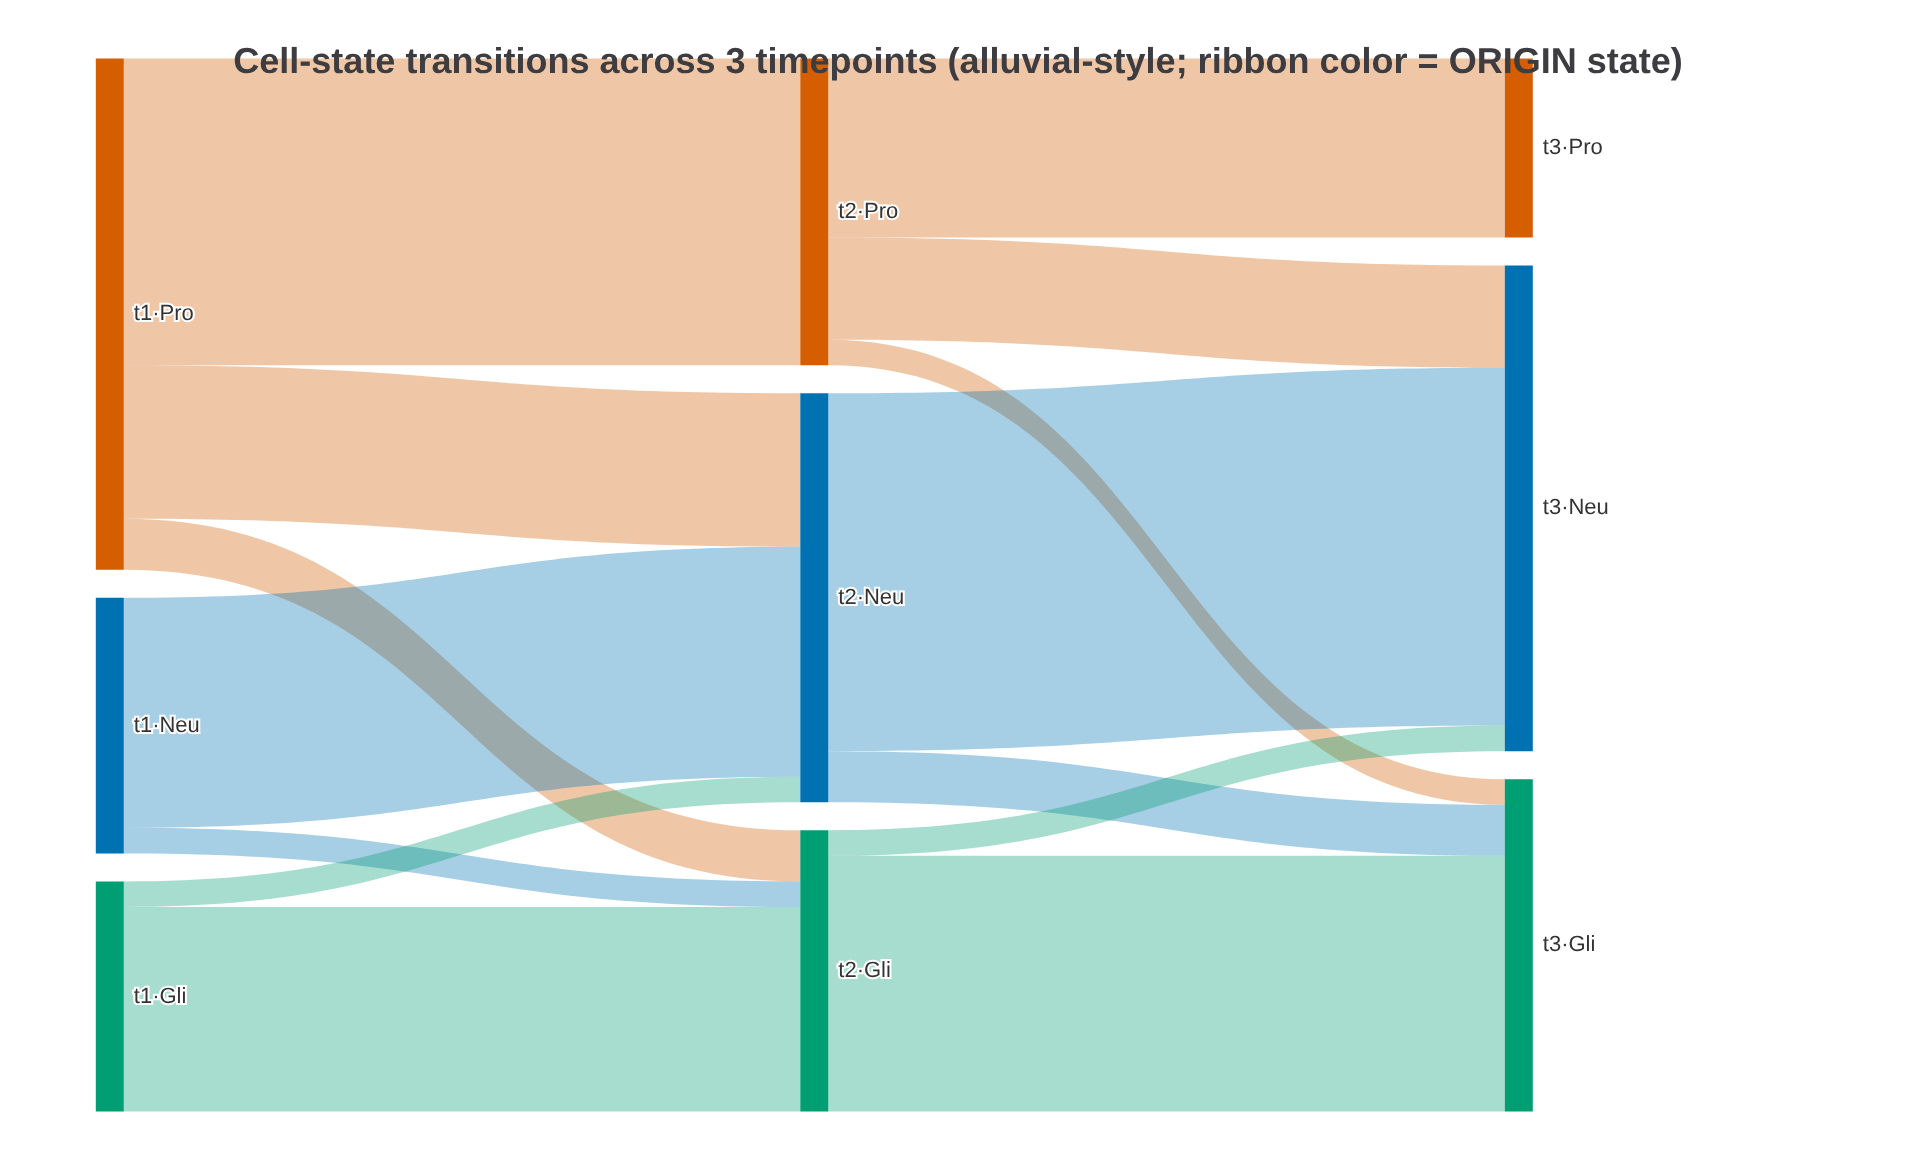
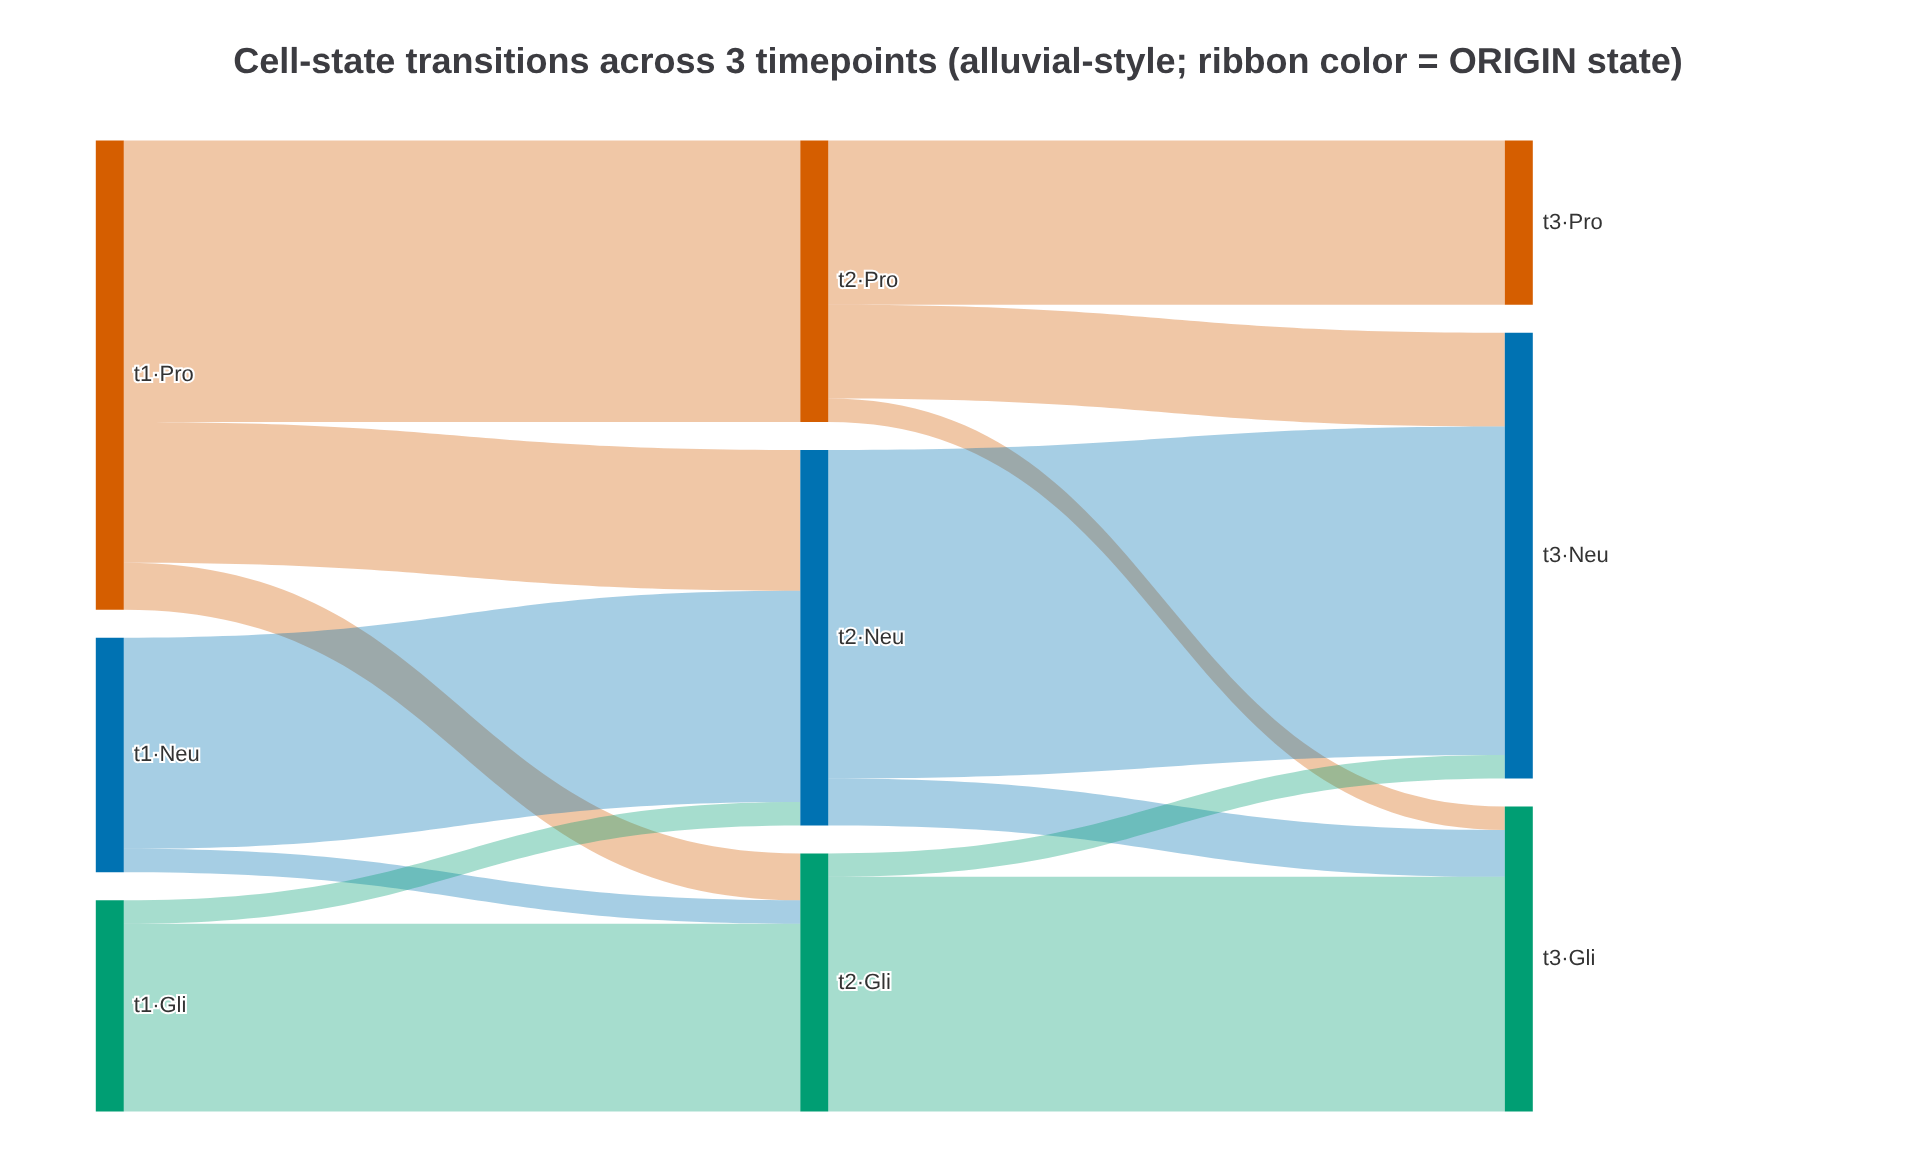
fix: ECharts sankey/title overlap (S11) — sankey ignores grid; set series.top
- examples/echarts.html, echarts-alluvial.html: sankey body rendered at top:0
  under the in-canvas title; now title.top=3% + series.top=12% (render-verified)
- SKILL.md: signature-library entry S11; engines/echarts.md pitfall
  (sankey/tree/sunburst/treemap position via their own top/left/right/bottom,
  not grid.top)
- screenshots for both examples regenerated (2x element crops)
- version 0.8.0 -> 0.8.1

diff --git a/examples/echarts-alluvial.html b/examples/echarts-alluvial.html
@@ -38,55 +38,55 @@ const SPEC = {
       "nodeWidth": 14,
       "data": [
         {
-          "name": "t1\u00b7Pro",
+          "name": "t1·Pro",
           "itemStyle": {
             "color": "#D55E00"
           }
         },
         {
-          "name": "t1\u00b7Neu",
+          "name": "t1·Neu",
           "itemStyle": {
             "color": "#0072B2"
           }
         },
         {
-          "name": "t1\u00b7Gli",
+          "name": "t1·Gli",
           "itemStyle": {
             "color": "#009E73"
           }
         },
         {
-          "name": "t2\u00b7Pro",
+          "name": "t2·Pro",
           "itemStyle": {
             "color": "#D55E00"
           }
         },
         {
-          "name": "t2\u00b7Neu",
+          "name": "t2·Neu",
           "itemStyle": {
             "color": "#0072B2"
           }
         },
         {
-          "name": "t2\u00b7Gli",
+          "name": "t2·Gli",
           "itemStyle": {
             "color": "#009E73"
           }
         },
         {
-          "name": "t3\u00b7Pro",
+          "name": "t3·Pro",
           "itemStyle": {
             "color": "#D55E00"
           }
         },
         {
-          "name": "t3\u00b7Neu",
+          "name": "t3·Neu",
           "itemStyle": {
             "color": "#0072B2"
           }
         },
         {
-          "name": "t3\u00b7Gli",
+          "name": "t3·Gli",
           "itemStyle": {
             "color": "#009E73"
           }
@@ -94,73 +94,73 @@ const SPEC = {
       ],
       "links": [
         {
-          "source": "t1\u00b7Pro",
-          "target": "t2\u00b7Pro",
+          "source": "t1·Pro",
+          "target": "t2·Pro",
           "value": 120
         },
         {
-          "source": "t1\u00b7Pro",
-          "target": "t2\u00b7Neu",
+          "source": "t1·Pro",
+          "target": "t2·Neu",
           "value": 60
         },
         {
-          "source": "t1\u00b7Pro",
-          "target": "t2\u00b7Gli",
+          "source": "t1·Pro",
+          "target": "t2·Gli",
           "value": 20
         },
         {
-          "source": "t1\u00b7Neu",
-          "target": "t2\u00b7Neu",
+          "source": "t1·Neu",
+          "target": "t2·Neu",
           "value": 90
         },
         {
-          "source": "t1\u00b7Neu",
-          "target": "t2\u00b7Gli",
+          "source": "t1·Neu",
+          "target": "t2·Gli",
           "value": 10
         },
         {
-          "source": "t1\u00b7Gli",
-          "target": "t2\u00b7Gli",
+          "source": "t1·Gli",
+          "target": "t2·Gli",
           "value": 80
         },
         {
-          "source": "t1\u00b7Gli",
-          "target": "t2\u00b7Neu",
+          "source": "t1·Gli",
+          "target": "t2·Neu",
           "value": 10
         },
         {
-          "source": "t2\u00b7Pro",
-          "target": "t3\u00b7Pro",
+          "source": "t2·Pro",
+          "target": "t3·Pro",
           "value": 70
         },
         {
-          "source": "t2\u00b7Pro",
-          "target": "t3\u00b7Neu",
+          "source": "t2·Pro",
+          "target": "t3·Neu",
           "value": 40
         },
         {
-          "source": "t2\u00b7Pro",
-          "target": "t3\u00b7Gli",
+          "source": "t2·Pro",
+          "target": "t3·Gli",
           "value": 10
         },
         {
-          "source": "t2\u00b7Neu",
-          "target": "t3\u00b7Neu",
+          "source": "t2·Neu",
+          "target": "t3·Neu",
           "value": 140
         },
         {
-          "source": "t2\u00b7Neu",
-          "target": "t3\u00b7Gli",
+          "source": "t2·Neu",
+          "target": "t3·Gli",
           "value": 20
         },
         {
-          "source": "t2\u00b7Gli",
-          "target": "t3\u00b7Gli",
+          "source": "t2·Gli",
+          "target": "t3·Gli",
           "value": 100
         },
         {
-          "source": "t2\u00b7Gli",
-          "target": "t3\u00b7Neu",
+          "source": "t2·Gli",
+          "target": "t3·Neu",
           "value": 10
         }
       ],
@@ -170,7 +170,8 @@ const SPEC = {
       "lineStyle": {
         "color": "source",
         "opacity": 0.35
-      }
+      },
+      "top": "12%"
     }
   ]
 };

diff --git a/examples/echarts.html b/examples/echarts.html
@@ -22,7 +22,8 @@
 const SPEC = {
   "title": {
     "text": "Grant allocation by cost category",
-    "left": "center"
+    "left": "center",
+    "top": "3%"
   },
   "tooltip": {
     "trigger": "item"
@@ -75,7 +76,8 @@ const SPEC = {
           "target": "Reagents & Consumables",
           "value": 40000
         }
-      ]
+      ],
+      "top": "12%"
     }
   ]
 };

diff --git a/SKILL.md b/SKILL.md
@@ -1,7 +1,7 @@
 ---
 name: chartz
 description: 'Render charts and graphs as self-contained HTML files from four pinned CDN engines, chosen by chart type. Use when the user asks for a chart, plot, dashboard, heatmap, network/graph diagram, or any data visualization as a file they can open in a browser — "make a bar chart", "plot this data", "heatmap of these values", "draw a network graph", "dashboard of these metrics". Engine router: Chart.js (simple statistical), Plotly.js (scientific/statistical), ECharts (rich/dashboards), Cytoscape.js (nodes + edges). Emits one single-file HTML per chart with pinned CDN versions; no build step, no server. Does NOT do text-to-flowchart/sequence diagrams (use Mermaid/lumen-generate_visual for that) and does NOT analyze data — it renders data you already have.'
-version: 0.8.0
+version: 0.8.1
 updated: "2026-09-21"
 triggers:
   - "make a chart"
@@ -20,7 +20,7 @@ requires:
 
 # chartz — chart & graph rendering skill
 
-> **v0.8.0.** Renders one self-contained HTML file per chart from four CDN-pinned engines (Chart.js, Plotly.js, ECharts, Cytoscape.js) plus six template-native SVG engines (GenomeTracks, ClusterHeat, OncoPrint, SeqLogo, UpSet, Circos — §5b–§5g), each pinned to an exact version. This SKILL.md is a **router + spec contract**: pick the engine from §1, emit the engine's JSON spec per that engine's file, fill a template slot, write the HTML, deliver the path. No build step.
+> **v0.8.1.** Renders one self-contained HTML file per chart from four CDN-pinned engines (Chart.js, Plotly.js, ECharts, Cytoscape.js) plus six template-native SVG engines (GenomeTracks, ClusterHeat, OncoPrint, SeqLogo, UpSet, Circos — §5b–§5g), each pinned to an exact version. This SKILL.md is a **router + spec contract**: pick the engine from §1, emit the engine's JSON spec per that engine's file, fill a template slot, write the HTML, deliver the path. No build step.
 
 ## 0. Workflow (always all five steps)
 
@@ -96,6 +96,7 @@ export: { width_mm: 89, dpi: 300, font_family: "Arial" }
 | S8  | Page renders but chart is 0px tall                      | Template container edited, or spec emitted before `DOMContentLoaded`                   | Use template verbatim; the container and init order are pre-wired          |
 | S9  | Cytoscape: a node or edge silently absent               | Duplicate `id` across the whole `elements` set (ids are global across nodes AND edges) | De-duplicate ids across all elements; regenerate with counter suffix       |
 | S10 | Chart.js chart squashed / wrong height despite 60vh box | `maintainAspectRatio` left at default `true` (container height ignored)                | Set `options.maintainAspectRatio: false` (engines/chartjs.md)                              |
+| S11 | ECharts: chart body overlaps the title text          | `sankey`/`tree`/`sunburst`/`treemap` ignore `grid` — they use their own `top` (sankey defaults to 0) | Set `series.top` (e.g. `"12%"`) below the in-canvas title (engines/echarts.md)                    |
 
 ## 7. Engine version pins (single source of truth — update SKILL.md first, then templates)
 

diff --git a/README.md b/README.md
@@ -1,6 +1,6 @@
 # chartz
 
-[![Version](https://img.shields.io/badge/version-0.8.0-blue)](#-installation)
+[![Version](https://img.shields.io/badge/version-0.8.1-blue)](#-installation)
 [![Type](https://img.shields.io/badge/type-agent%20skill-blueviolet)](#-installation)
 [![README standard](https://img.shields.io/badge/README%20per-bioinfo--skill--creator-orange)](https://github.com/cheahhl814/bioinfo-skill-creator)
 
@@ -9,7 +9,7 @@ Render charts and graphs as self-contained HTML files from four CDN-pinned engin
 **Repository**: https://github.com/cheahhl814/chartz
 
 > [!NOTE]
-> Current version: **v0.8.0** (updated 2026-09-21). v0.2.0 GenomeTracks (§5b); v0.3.0 ClusterHeat (§5c); v0.4.0 OncoPrint (§5d); v0.5.0 SeqLogo (§5e); v0.6.0 UpSet (§5f); v0.7.0 adds Circos (§5g); v0.8.0 adds **print/vector export** — Download SVG (journal-submission vector, mm-sized) on all template-native engines, deterministic `export: {width_mm, dpi}` PNG raster, and Plotly vector export via `toImageButtonOptions` (SKILL.md §6b).
+> Current version: **v0.8.1** (updated 2026-09-21). v0.8.1 fixes the ECharts sankey/title overlap (S11 — sankey ignores `grid`; set `series.top`). v0.8.0 adds v0.2.0 GenomeTracks (§5b); v0.3.0 ClusterHeat (§5c); v0.4.0 OncoPrint (§5d); v0.5.0 SeqLogo (§5e); v0.6.0 UpSet (§5f); v0.7.0 adds Circos (§5g); v0.8.0 adds **print/vector export** — Download SVG (journal-submission vector, mm-sized) on all template-native engines, deterministic `export: {width_mm, dpi}` PNG raster, and Plotly vector export via `toImageButtonOptions` (SKILL.md §6b).
 
 ## Contents
 

diff --git a/engines/echarts.md b/engines/echarts.md
@@ -25,6 +25,7 @@ Loaded from SKILL.md §1 routing when this engine is selected.
 
 **Pitfalls**
 
+- **Chart body overlaps the title** (S11): `sankey`, `tree`, `sunburst`, and `treemap` **ignore `grid`** — they position via their own `top`/`left`/`right`/`bottom`, and `sankey` defaults to `top: 0`. With an in-canvas `title`, set `series.top` (e.g. `"12%"`) so the body clears the title; `grid.top` does nothing for these types. Worked: `examples/echarts.html`, `examples/echarts-alluvial.html`.
 - Sankey: every `link.source/target` must exist in `data` by exact `name` (string-equal, case-sensitive) — the #1 silent-blank-canvas cause.
 - Sankey cycles: ECharts renders nothing on a cyclic graph; verify DAG-ness before emitting.
 - Ribbon color: default link color is gray — set `lineStyle: {"color": "source", "opacity": 0.35}` to color ribbons by origin node (the alluvial convention; references/conventions.md §10.8). `"target"` colors by destination.
